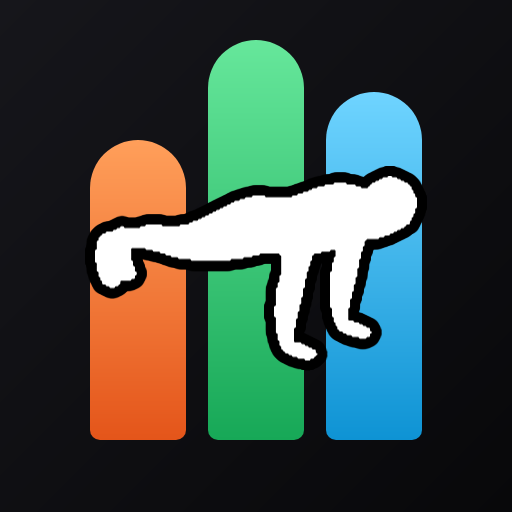
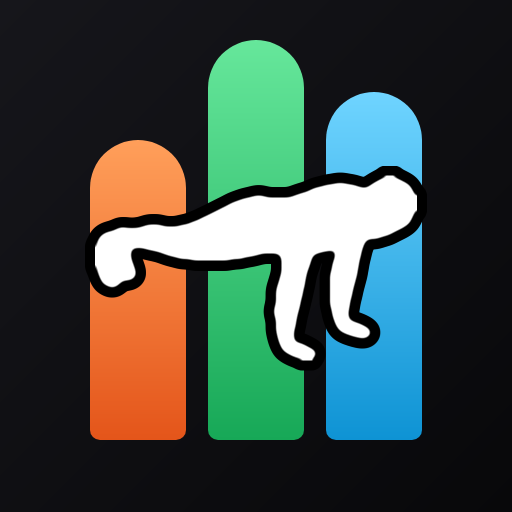
Smooth the silhouette edges
The figure came off a small JPEG, so a hard threshold left staircase
edges. The sprite is now built at double size: the mask is blurred, cut
back with a steep alpha ramp, outlined and only then scaled down, which
leaves clean curves with an anti-aliased edge.

diff --git a/pushup-bot/scripts/make-avatar-from-icon.ts b/pushup-bot/scripts/make-avatar-from-icon.ts
@@ -49,6 +49,45 @@ function morph(data: Uint8Array, width: number, height: number, keep: number): U
   return out;
 }
 
+/** Размытие альфы по строкам и столбцам: несколько проходов ≈ гауссово. */
+function blurAlpha(data: Uint8ClampedArray, width: number, height: number, radius: number, passes = 3): void {
+  const line = new Float32Array(Math.max(width, height));
+  for (let pass = 0; pass < passes; pass += 1) {
+    for (let y = 0; y < height; y += 1) {
+      for (let x = 0; x < width; x += 1) line[x] = data[(y * width + x) * 4 + 3]!;
+      let sum = 0;
+      for (let x = -radius; x <= radius; x += 1) sum += line[Math.min(Math.max(x, 0), width - 1)]!;
+      for (let x = 0; x < width; x += 1) {
+        data[(y * width + x) * 4 + 3] = sum / (radius * 2 + 1);
+        sum -= line[Math.min(Math.max(x - radius, 0), width - 1)]!;
+        sum += line[Math.min(Math.max(x + radius + 1, 0), width - 1)]!;
+      }
+    }
+    for (let x = 0; x < width; x += 1) {
+      for (let y = 0; y < height; y += 1) line[y] = data[(y * width + x) * 4 + 3]!;
+      let sum = 0;
+      for (let y = -radius; y <= radius; y += 1) sum += line[Math.min(Math.max(y, 0), height - 1)]!;
+      for (let y = 0; y < height; y += 1) {
+        data[(y * width + x) * 4 + 3] = sum / (radius * 2 + 1);
+        sum -= line[Math.min(Math.max(y - radius, 0), height - 1)]!;
+        sum += line[Math.min(Math.max(y + radius + 1, 0), height - 1)]!;
+      }
+    }
+  }
+}
+
+/** Ступеньки от исходной картинки размываем и режем порогом — край выходит гладким. */
+function smoothEdges(data: Uint8ClampedArray, count: number, softness: number): void {
+  for (let i = 0; i < count; i += 1) {
+    const alpha = data[i * 4 + 3]! / 255;
+    const value = Math.min(Math.max((alpha - 0.5) * softness + 0.5, 0), 1);
+    data[i * 4] = 255;
+    data[i * 4 + 1] = 255;
+    data[i * 4 + 2] = 255;
+    data[i * 4 + 3] = Math.round(value * 255);
+  }
+}
+
 /** Перекрашивает непрозрачные пиксели спрайта в один цвет. */
 function tint(sprite: Canvas, color: string): Canvas {
   const canvas = createCanvas(sprite.width, sprite.height);
@@ -99,26 +138,34 @@ for (let i = 0; i < width * height; i += 1) {
 }
 cutContext.putImageData(image, 0, 0);
 
-// Увеличиваем со сглаживанием, потом режем полупрозрачность — края остаются чёткими.
+// Спрайт собираем вдвое крупнее итогового: размываем ступеньки, режем порогом,
+// обводим контуром и только потом уменьшаем — края получаются плавными и чёткими.
 const cropWidth = maxX - minX + 1;
 const cropHeight = maxY - minY + 1;
 const spriteWidth = 322;
 const spriteHeight = Math.round((cropHeight / cropWidth) * spriteWidth);
-const sprite = createCanvas(spriteWidth, spriteHeight);
-const spriteContext = sprite.getContext('2d');
-spriteContext.imageSmoothingEnabled = true;
-spriteContext.imageSmoothingQuality = 'high';
-spriteContext.drawImage(cut, minX, minY, cropWidth, cropHeight, 0, 0, spriteWidth, spriteHeight);
-const spriteData = spriteContext.getImageData(0, 0, spriteWidth, spriteHeight);
-for (let i = 0; i < spriteWidth * spriteHeight; i += 1) {
-  const alpha = spriteData.data[i * 4 + 3]!;
-  spriteData.data[i * 4] = 255;
-  spriteData.data[i * 4 + 1] = 255;
-  spriteData.data[i * 4 + 2] = 255;
-  // Мягкие края сохраняем, но подтягиваем, чтобы силуэт не выглядел размытым.
-  spriteData.data[i * 4 + 3] = Math.max(0, Math.min(255, Math.round((alpha - 60) * 2.2)));
+const bigWidth = spriteWidth * 2;
+const bigHeight = spriteHeight * 2;
+
+const big = createCanvas(bigWidth, bigHeight);
+const bigContext = big.getContext('2d');
+bigContext.imageSmoothingEnabled = false;
+bigContext.drawImage(cut, minX, minY, cropWidth, cropHeight, 0, 0, bigWidth, bigHeight);
+const bigData = bigContext.getImageData(0, 0, bigWidth, bigHeight);
+blurAlpha(bigData.data, bigWidth, bigHeight, Math.round(bigWidth / cropWidth) + 2);
+smoothEdges(bigData.data, bigWidth * bigHeight, 6);
+bigContext.putImageData(bigData, 0, 0);
+
+// Контур: чёрная копия силуэта, размноженная по кругу.
+const thickness = 20;
+const outlined = createCanvas(bigWidth + thickness * 2, bigHeight + thickness * 2);
+const outlinedContext = outlined.getContext('2d');
+const shadow = tint(big, '#000000');
+for (let step = 0; step < 96; step += 1) {
+  const angle = (step / 96) * Math.PI * 2;
+  outlinedContext.drawImage(shadow, thickness + Math.cos(angle) * thickness, thickness + Math.sin(angle) * thickness);
 }
-spriteContext.putImageData(spriteData, 0, 0);
+outlinedContext.drawImage(big, thickness, thickness);
 
 // Собираем аватарку.
 const canvas = createCanvas(SIZE, SIZE);
@@ -145,15 +192,13 @@ const bottom = SIZE - 72;
   context.fill();
 });
 
-const figureX = (SIZE - spriteWidth) / 2;
-const figureY = (SIZE - spriteHeight) / 2 + 12;
-const outline = tint(sprite, '#000000');
-const thickness = 10;
-for (let step = 0; step < 48; step += 1) {
-  const angle = (step / 48) * Math.PI * 2;
-  context.drawImage(outline, figureX + Math.cos(angle) * thickness, figureY + Math.sin(angle) * thickness);
-}
-context.drawImage(sprite, figureX, figureY);
+const drawWidth = outlined.width / 2;
+const drawHeight = outlined.height / 2;
+const figureX = (SIZE - drawWidth) / 2;
+const figureY = (SIZE - drawHeight) / 2 + 12;
+context.imageSmoothingEnabled = true;
+context.imageSmoothingQuality = 'high';
+context.drawImage(outlined, figureX, figureY, drawWidth, drawHeight);
 
 writeFileSync(target, canvas.toBuffer('image/png'));
 console.log(`готово: ${target} (фигура ${spriteWidth}×${spriteHeight})`);
